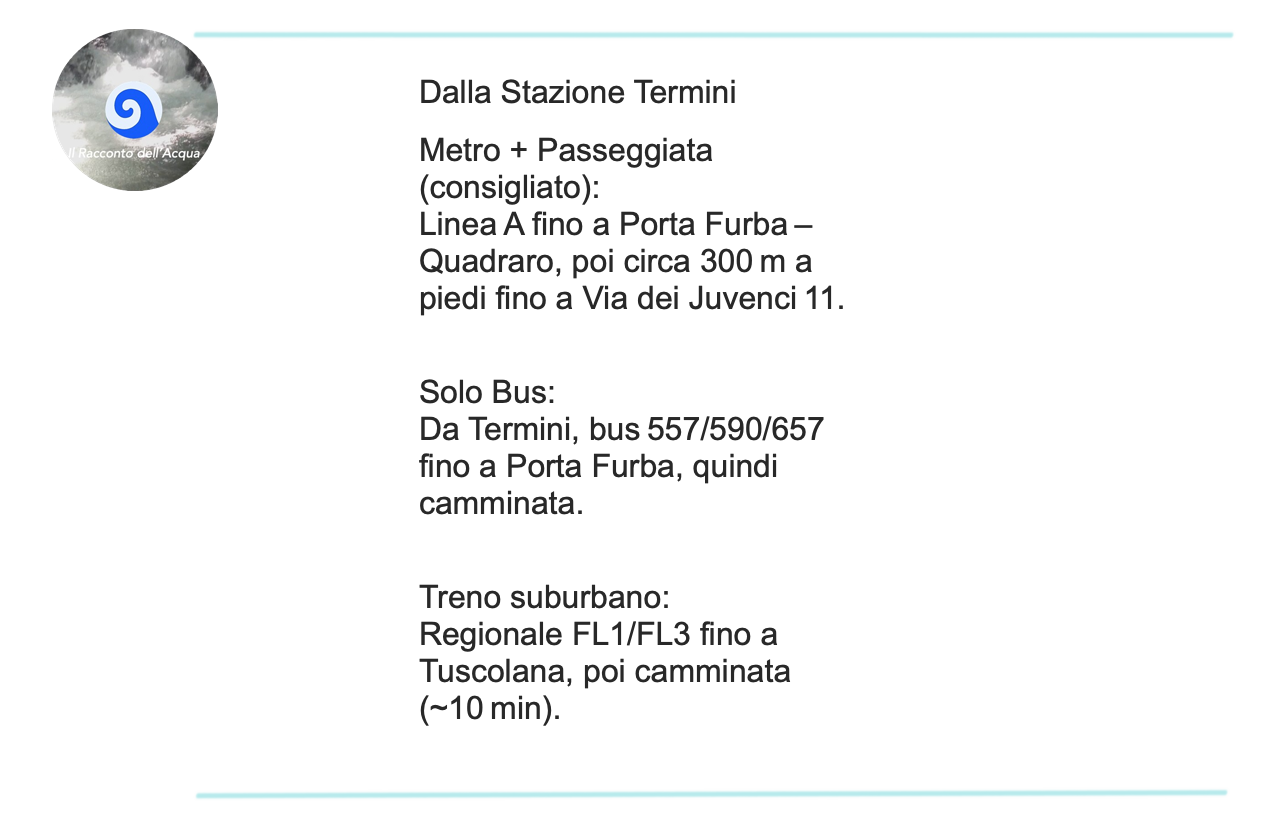
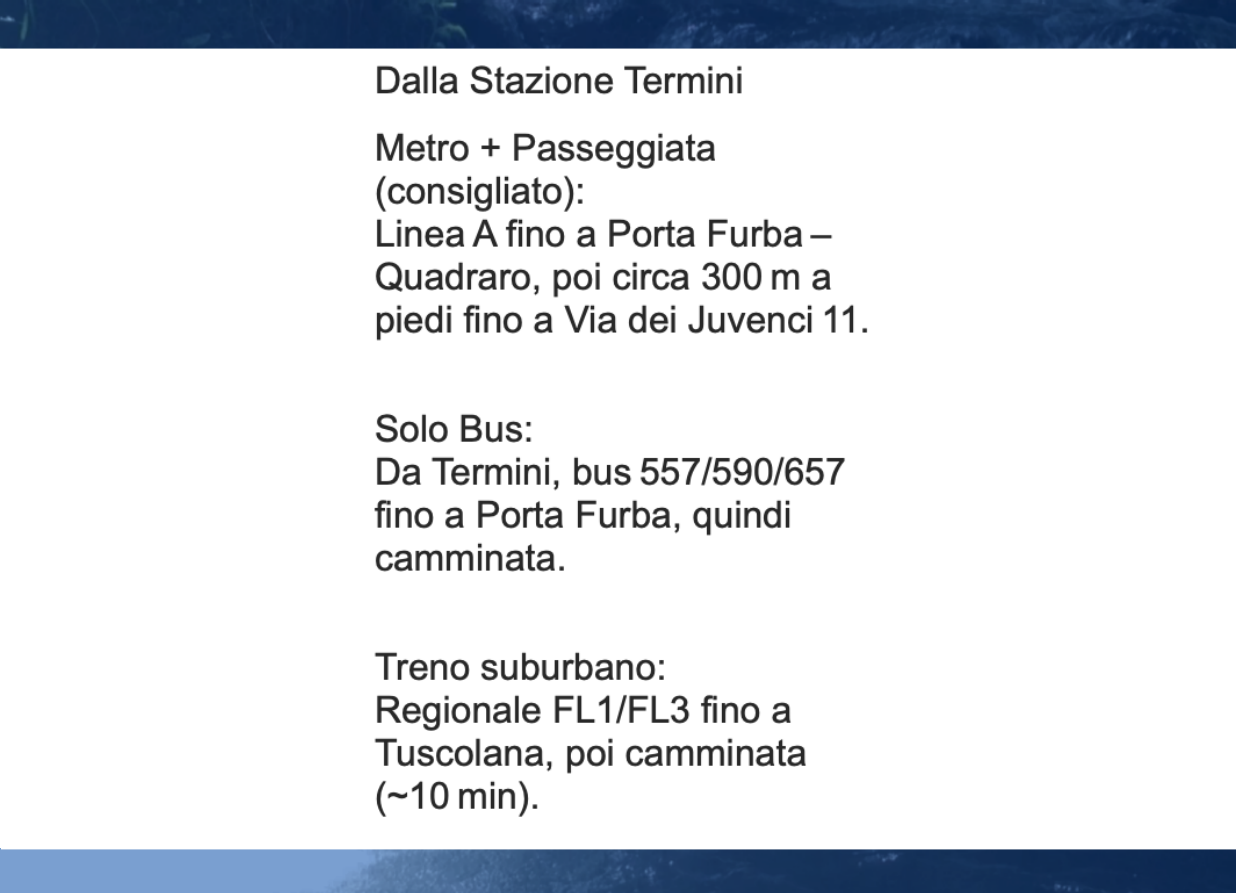
Appointment1-GOOD

diff --git a/src/pages/NewProgrammaFile/NewProgramma.js b/src/pages/NewProgrammaFile/NewProgramma.js
@@ -92,6 +92,13 @@ import SpazioYIT from "../../assets/images/SpazioYIT.png";
 import SpazioYEN from "../../assets/images/SpazioYEN.png";
 import SpazioYFR from "../../assets/images/SpazioYFR.png";
 
+import AcquedottoEN from "../../assets/images/AcquedottoEN.png";
+import AcquedottoIT from "../../assets/images/AcquedottoIT.png";
+import AcquedottoFR from "../../assets/images/AcquedottoFR.png";
+import ToAcquedottoEN from "../../assets/images/ToAcquedottoEN.png";
+import ToAcquedottoIT from "../../assets/images/ToAcquedottoIT.png";
+import ToAcquedottoFR from "../../assets/images/ToAcquedottoFR.png";
+
 import Logo from "../../assets/images/LogoOndaBlue2.png";
 
 import AppareilFoto from "../../assets/images/AppareilFoto.png";
@@ -187,6 +194,12 @@ const Programma = () => {
     fr: ToSpazioYFR,
   };
 
+  const ToAcquedottoImageMap = {
+    it: ToAcquedottoIT,
+    en: ToAcquedottoEN,
+    fr: ToAcquedottoFR,
+  };
+
   const CasaPirriBookImageMap = {
     it: CasaPirriIT,
     en: CasaPirriEN,
@@ -197,6 +210,12 @@ const Programma = () => {
     it: SpazioYIT,
     en: SpazioYEN,
     fr: SpazioYFR,
+  };
+
+  const AcquedottoBookImageMap = {
+    it: AcquedottoIT,
+    en: AcquedottoEN,
+    fr: AcquedottoFR,
   };
 
   const AppFotoImageMap = {
@@ -310,6 +329,7 @@ const Programma = () => {
             />
           </div>
         </div>
+
         <div className={styles.Orari}>
           <div>
             <Trans i18nKey="program.appointment1.location3.time_and_name" />
@@ -326,6 +346,12 @@ const Programma = () => {
             <Trans
               i18nKey="program.appointment1.location3.address"
               components={{
+                book_Acquedotto: (
+                  <Book
+                    imageMap={AcquedottoBookImageMap}
+                    altKey="program.bookAlt"
+                  />
+                ),
                 map3: (
                   <span className={styles.SimbolMapp}>
                     <MapButton
@@ -334,6 +360,12 @@ const Programma = () => {
                       <img src={simbolmapp} alt={t("program.mapSymbolAlt")} />
                     </MapButton>
                   </span>
+                ),
+                toAcquedotto_1: (
+                  <FromStation
+                    imageMap={ToAcquedottoImageMap}
+                    altKey="program.fromStationAlt"
+                  />
                 ),
               }}
             />
